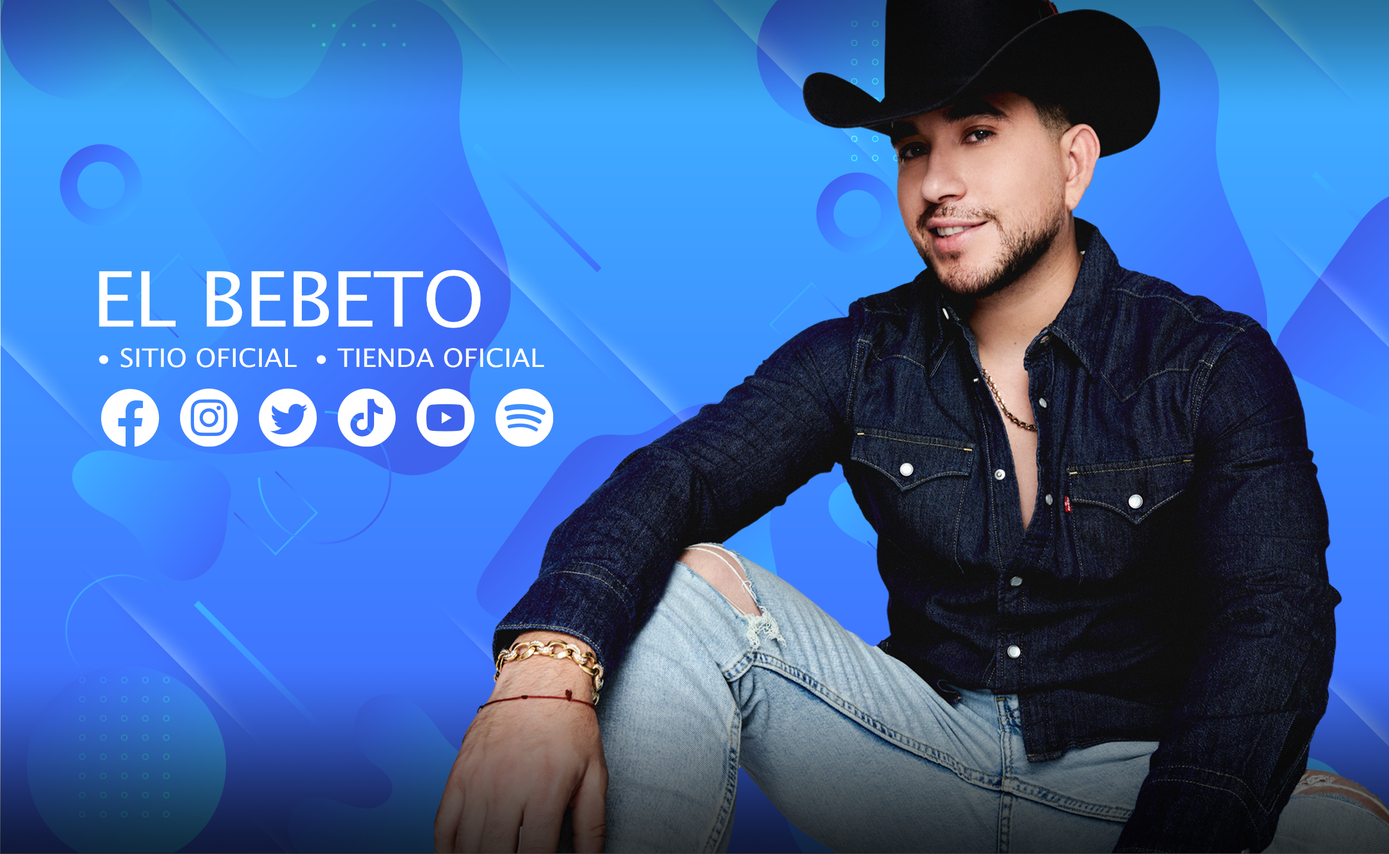
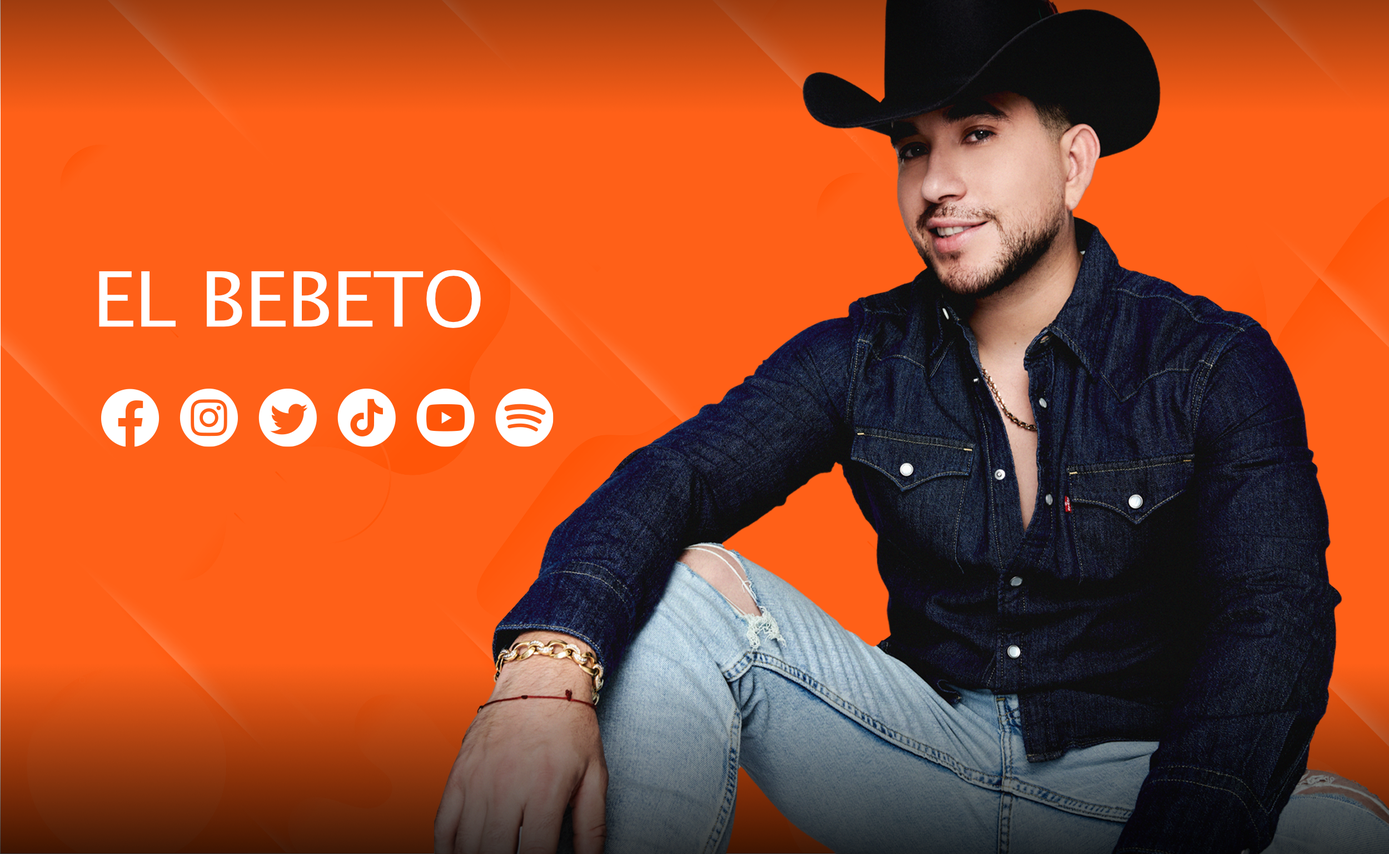
CAMBIOS

diff --git a/El_Bebeto.html b/El_Bebeto.html
@@ -357,7 +357,7 @@ height='0' width='0' style='display:none;visibility:hidden'></iframe></noscript>
     <div class="slider slider-for">
         
             <div class="node-banner">
-                <div class="banner-image hide-for-small-only dsk" style="background-image: url(images/El_Bebeto_Banner.png  )"></div>
+                <div class="banner-image hide-for-small-only dsk" style="background-image: url(images/EL-BEBETO-BANNER.png)"></div>
                                 <div class="banner-image show-for-small-only mob" style="background-image: url(images/El_Bebeto_Banner_Mobile.png)"></div>
                 
             </div>
